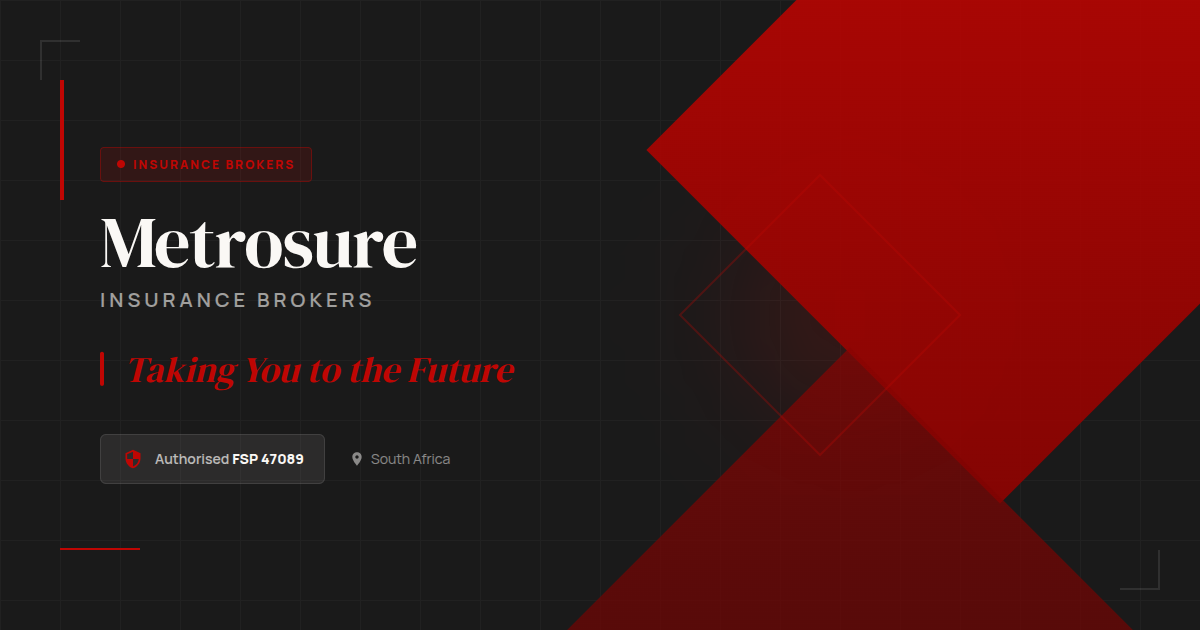
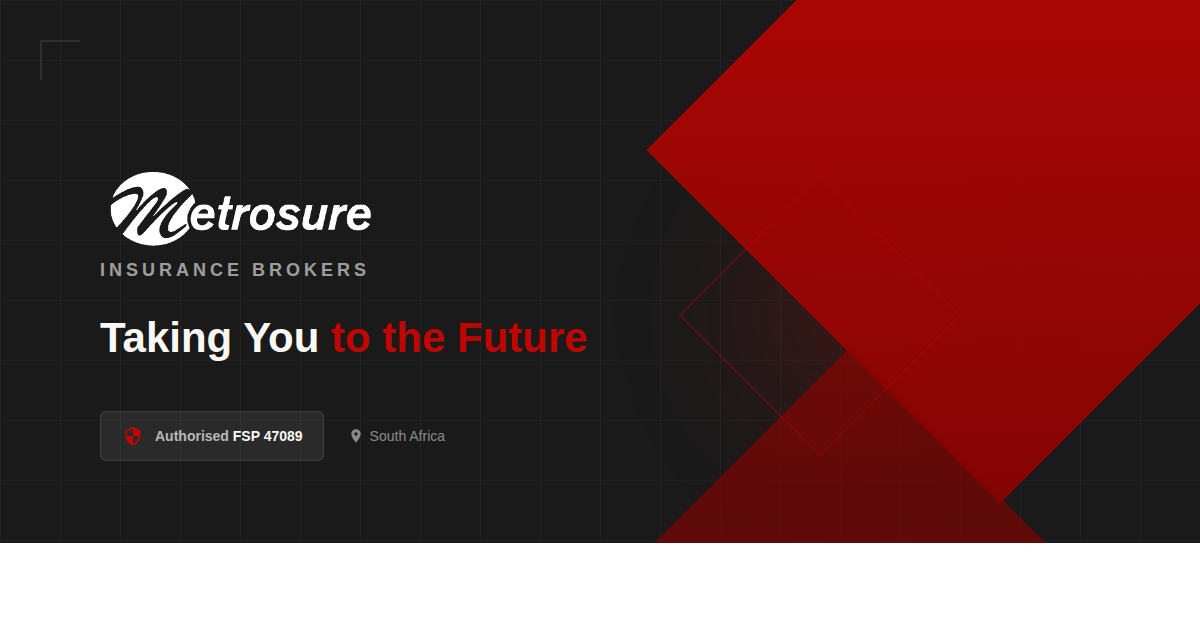
feat: redesign OG image and add explicit metadata to all pages
- Redesign og-image.png with sans-serif fonts (Manrope only)
- Add Metrosure logo and "Insurance Brokers" subtitle
- Remove old badge and red accent lines
- Add explicit og:image and twitter:image to all child layouts
- Add og:url to root and child layouts
- Add complete OG/Twitter metadata to contact and partners pages
- Add canonical URLs where missing

diff --git a/metrosure-insurance/public/og-image.html b/metrosure-insurance/public/og-image.html
@@ -6,7 +6,7 @@
   <title>Metrosure Insurance Brokers - OG Image</title>
   <link rel="preconnect" href="https://fonts.googleapis.com">
   <link rel="preconnect" href="https://fonts.gstatic.com" crossorigin>
-  <link href="https://fonts.googleapis.com/css2?family=DM+Serif+Display&family=Manrope:wght@400;600;800&display=swap" rel="stylesheet">
+  <link href="https://fonts.googleapis.com/css2?family=Manrope:wght@400;500;600;700;800&display=swap" rel="stylesheet">
   <style>
     * {
       margin: 0;
@@ -81,26 +81,6 @@
       transform: translateY(-50%) rotate(45deg);
     }
 
-    /* Accent lines */
-    .accent-line {
-      position: absolute;
-      background: var(--primary);
-    }
-
-    .accent-line-1 {
-      top: 80px;
-      left: 60px;
-      width: 4px;
-      height: 120px;
-    }
-
-    .accent-line-2 {
-      bottom: 80px;
-      left: 60px;
-      width: 80px;
-      height: 2px;
-    }
-
     /* Content area */
     .content {
       position: relative;
@@ -114,48 +94,16 @@
       max-width: 750px;
     }
 
-    /* Badge */
-    .badge {
-      display: inline-flex;
-      align-items: center;
-      gap: 8px;
-      background: rgba(191, 6, 3, 0.15);
-      border: 1px solid rgba(191, 6, 3, 0.4);
-      padding: 8px 16px;
-      border-radius: 4px;
-      margin-bottom: 24px;
-      width: fit-content;
+    /* Logo */
+    .logo {
+      width: 280px;
+      height: auto;
+      margin-bottom: 12px;
     }
 
-    .badge-dot {
-      width: 8px;
-      height: 8px;
-      background: var(--primary);
-      border-radius: 50%;
-    }
-
-    .badge-text {
-      font-size: 12px;
-      font-weight: 800;
-      letter-spacing: 2px;
-      text-transform: uppercase;
-      color: var(--primary);
-    }
-
-    /* Typography */
-    .company-name {
-      font-family: 'DM Serif Display', serif;
-      font-size: 72px;
-      font-weight: 400;
-      color: var(--cream);
-      line-height: 1;
-      margin-bottom: 8px;
-      letter-spacing: -1px;
-    }
-
-    .company-suffix {
+    .company-subtitle {
       font-family: 'Manrope', sans-serif;
-      font-size: 20px;
+      font-size: 18px;
       font-weight: 600;
       color: rgba(250, 248, 245, 0.6);
       text-transform: uppercase;
@@ -163,27 +111,18 @@
       margin-bottom: 32px;
     }
 
+    /* Typography - All Sans Serif */
     .tagline {
-      font-family: 'DM Serif Display', serif;
-      font-size: 36px;
-      font-weight: 400;
-      font-style: italic;
-      color: var(--primary);
-      margin-bottom: 40px;
-      position: relative;
-      padding-left: 24px;
+      font-family: 'Manrope', sans-serif;
+      font-size: 42px;
+      font-weight: 700;
+      color: var(--cream);
+      margin-bottom: 48px;
+      line-height: 1.2;
     }
 
-    .tagline::before {
-      content: '';
-      position: absolute;
-      left: 0;
-      top: 50%;
-      transform: translateY(-50%);
-      width: 4px;
-      height: 70%;
-      background: var(--primary);
-      border-radius: 2px;
+    .tagline-highlight {
+      color: var(--primary);
     }
 
     /* Footer info */
@@ -289,25 +228,17 @@
     <div class="shape-2"></div>
     <div class="shape-3"></div>
 
-    <!-- Accent lines -->
-    <div class="accent-line accent-line-1"></div>
-    <div class="accent-line accent-line-2"></div>
-
     <!-- Corner decorations -->
     <div class="corner corner-tl"></div>
     <div class="corner corner-br"></div>
 
     <!-- Main content -->
     <div class="content">
-      <div class="badge">
-        <span class="badge-dot"></span>
-        <span class="badge-text">Insurance Brokers</span>
-      </div>
+      <!-- Logo image -->
+      <img src="images/logo-white.png" alt="Metrosure" class="logo">
+      <p class="company-subtitle">Insurance Brokers</p>
 
-      <h1 class="company-name">Metrosure</h1>
-      <p class="company-suffix">Insurance Brokers</p>
-
-      <p class="tagline">Taking You to the Future</p>
+      <p class="tagline">Taking You <span class="tagline-highlight">to the Future</span></p>
 
       <div class="footer-info">
         <div class="fsp-badge">

diff --git a/metrosure-insurance/src/app/partners/page.tsx b/metrosure-insurance/src/app/partners/page.tsx
@@ -33,15 +33,21 @@ export const metadata: Metadata = {
     title: "Partner With Us | Metrosure Insurance Brokers",
     description:
       "Transform your retail space into a revenue engine. Partner with Metrosure for in-store insurance campaigns that create jobs and boost your business.",
+    url: "/partners",
     type: "website",
     locale: "en_ZA",
     siteName: "Metrosure Insurance Brokers",
+    images: ["/og-image.png"],
   },
   twitter: {
     card: "summary_large_image",
     title: "Partner With Us | Metrosure Insurance Brokers",
     description:
       "Transform your retail space into a revenue engine. Partner with Metrosure for in-store insurance campaigns.",
+    images: ["/og-image.png"],
+  },
+  alternates: {
+    canonical: "/partners",
   },
 };
 

diff --git a/metrosure-insurance/src/app/careers/layout.tsx b/metrosure-insurance/src/app/careers/layout.tsx
@@ -6,10 +6,14 @@ export const metadata: Metadata = {
   openGraph: {
     title: "Careers | Metrosure Insurance Brokers",
     description: "Join the Metrosure team. We've created over 5,000 jobs across South Africa. Explore career opportunities in insurance and financial services.",
+    url: "/careers",
+    images: ["/og-image.png"],
   },
   twitter: {
+    card: "summary_large_image",
     title: "Careers | Metrosure Insurance Brokers",
     description: "Join the Metrosure team. We've created over 5,000 jobs across South Africa. Explore career opportunities in insurance and financial services.",
+    images: ["/og-image.png"],
   },
   alternates: {
     canonical: "/careers",

diff --git a/metrosure-insurance/src/app/quote/layout.tsx b/metrosure-insurance/src/app/quote/layout.tsx
@@ -6,10 +6,14 @@ export const metadata: Metadata = {
   openGraph: {
     title: "Get a Quote | Metrosure Insurance Brokers",
     description: "Get a free insurance quote with real-time pricing. Car, home, life, funeral, and business insurance. No obligations, instant estimates.",
+    url: "/quote",
+    images: ["/og-image.png"],
   },
   twitter: {
+    card: "summary_large_image",
     title: "Get a Quote | Metrosure Insurance Brokers",
     description: "Get a free insurance quote with real-time pricing. Car, home, life, funeral, and business insurance. No obligations, instant estimates.",
+    images: ["/og-image.png"],
   },
   alternates: {
     canonical: "/quote",

diff --git a/metrosure-insurance/src/app/about/layout.tsx b/metrosure-insurance/src/app/about/layout.tsx
@@ -6,10 +6,14 @@ export const metadata: Metadata = {
   openGraph: {
     title: "About Us | Metrosure Insurance Brokers",
     description: "A proudly South African company protecting families and partnering with retail businesses since 2013. Over 5,000 jobs created nationwide.",
+    url: "/about",
+    images: ["/og-image.png"],
   },
   twitter: {
+    card: "summary_large_image",
     title: "About Us | Metrosure Insurance Brokers",
     description: "A proudly South African company protecting families and partnering with retail businesses since 2013. Over 5,000 jobs created nationwide.",
+    images: ["/og-image.png"],
   },
   alternates: {
     canonical: "/about",

diff --git a/metrosure-insurance/src/app/contact/page.tsx b/metrosure-insurance/src/app/contact/page.tsx
@@ -17,7 +17,19 @@ export const metadata: Metadata = {
     title: "Contact Us | Metrosure Insurance Brokers",
     description:
       "Get in touch with Metrosure Insurance Brokers. Contact our sales team, customer support, or file a claim.",
+    url: "/contact",
     type: "website",
+    images: ["/og-image.png"],
+  },
+  twitter: {
+    card: "summary_large_image",
+    title: "Contact Us | Metrosure Insurance Brokers",
+    description:
+      "Get in touch with Metrosure Insurance Brokers. Contact our sales team, customer support, or file a claim.",
+    images: ["/og-image.png"],
+  },
+  alternates: {
+    canonical: "/contact",
   },
 };
 

diff --git a/metrosure-insurance/src/app/claims/layout.tsx b/metrosure-insurance/src/app/claims/layout.tsx
@@ -6,10 +6,14 @@ export const metadata: Metadata = {
   openGraph: {
     title: "Claims Centre | Metrosure Insurance Brokers",
     description: "Submit and track insurance claims easily. Our dedicated team is here to help you through the claims process.",
+    url: "/claims",
+    images: ["/og-image.png"],
   },
   twitter: {
+    card: "summary_large_image",
     title: "Claims Centre | Metrosure Insurance Brokers",
     description: "Submit and track insurance claims easily. Our dedicated team is here to help you through the claims process.",
+    images: ["/og-image.png"],
   },
   alternates: {
     canonical: "/claims",

diff --git a/metrosure-insurance/src/app/corporate/layout.tsx b/metrosure-insurance/src/app/corporate/layout.tsx
@@ -8,14 +8,17 @@ export const metadata: Metadata = {
   openGraph: {
     title: `${corporateSEO.title} | Metrosure Insurance Brokers`,
     description: corporateSEO.description,
+    url: "/corporate",
     type: "website",
     locale: "en_ZA",
     siteName: "Metrosure Insurance Brokers",
+    images: ["/og-image.png"],
   },
   twitter: {
     card: "summary_large_image",
     title: `${corporateSEO.title} | Metrosure Insurance Brokers`,
     description: corporateSEO.description,
+    images: ["/og-image.png"],
   },
 };
 

diff --git a/metrosure-insurance/src/app/layout.tsx b/metrosure-insurance/src/app/layout.tsx
@@ -35,6 +35,7 @@ export const metadata: Metadata = {
   openGraph: {
     title: "Metrosure Insurance Brokers | Taking You to the Future",
     description: "Your trusted South African insurance broker. Personal and business insurance, financial planning, and retail insurance solutions. FSP 47089.",
+    url: "/",
     type: "website",
     locale: "en_ZA",
     siteName: "Metrosure Insurance Brokers",
